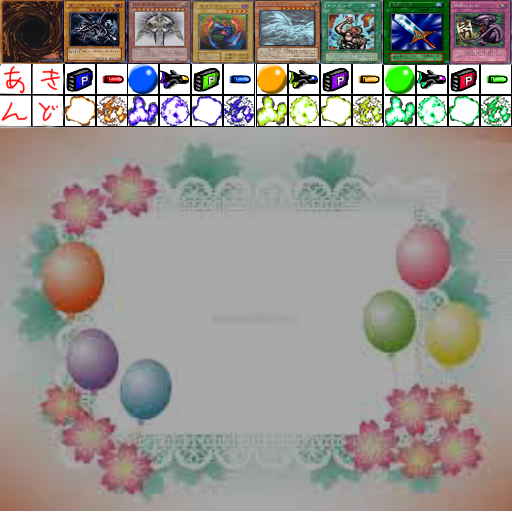
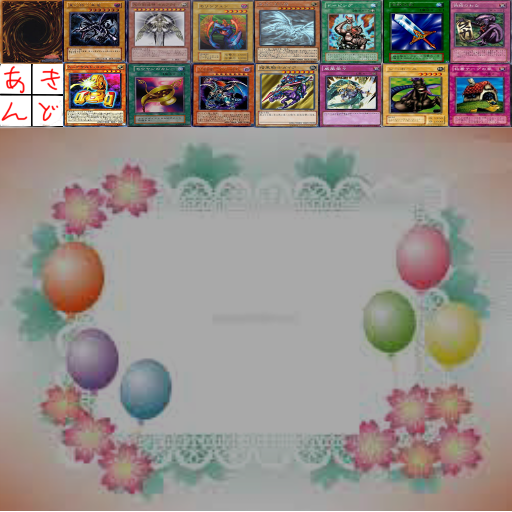
手札調整 テスト用ポインタ

Changed region(s): [[0.125, 0.0938, 1.0, 0.25]]

diff --git a/Main/Main/Deck.h b/Main/Main/Deck.h
@@ -14,10 +14,16 @@ public:
 	void Draw();
 
 	int cardcou;
+	int Card;
 private:
 	int x, y;
 	int m_x, m_y;
-	bool m_f;
 
+	int Cardcount;
+	int stop;
+	int Deck[40];
+	int tehuda[40];
+
+	bool m_f;
 	bool Start;
 };
